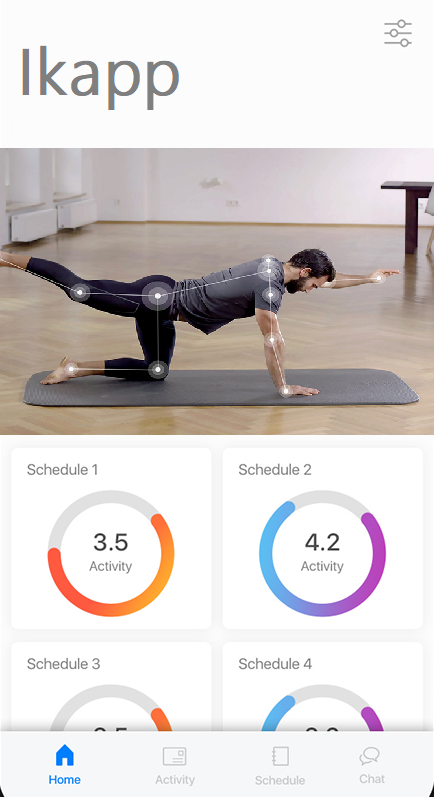
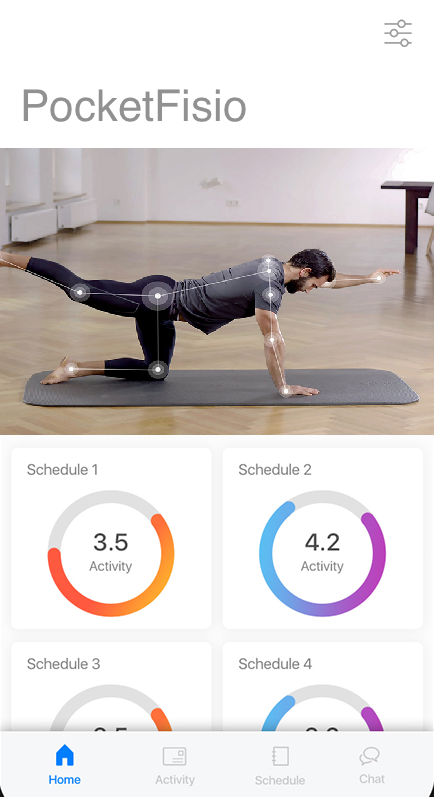
update names from ikapp to pocketfisio

Changed region(s): [[0.03, 0.0602, 0.5691, 0.1506]]

diff --git a/index.html b/index.html
@@ -4,7 +4,7 @@
 <head>
     <meta charset="utf-8">
     <meta name="viewport" content="width=device-width, initial-scale=1.0, shrink-to-fit=no">
-    <title>Home - Ikapp</title>
+    <title>Home - PocketFisio</title>
     <meta name="description" content="Nós usamos tecnologia para acompanhar seu desenvolvimento motor.">
     <link rel="stylesheet" href="assets/bootstrap/css/bootstrap.min.css?h=eeba1d2329a751cb3a0f397b5bee7ef9">
     <link rel="stylesheet" href="https://fonts.googleapis.com/css?family=Lato">
@@ -22,7 +22,7 @@
 
 <body id="page-top">
     <nav class="navbar navbar-light navbar-expand-lg fixed-top" id="mainNav">
-        <div class="container"><a class="navbar-brand js-scroll-trigger" href="#page-top">Ikapp</a><button data-toggle="collapse" data-target="#navbarResponsive" class="navbar-toggler float-right" aria-controls="navbarResponsive" aria-expanded="false" aria-label="Toggle navigation"><i class="fa fa-bars"></i></button>
+        <div class="container"><a class="navbar-brand js-scroll-trigger" href="#page-top">PocketFisio</a><button data-toggle="collapse" data-target="#navbarResponsive" class="navbar-toggler float-right" aria-controls="navbarResponsive" aria-expanded="false" aria-label="Toggle navigation"><i class="fa fa-bars"></i></button>
             <div
                 class="collapse navbar-collapse" id="navbarResponsive">
                 <ul class="nav navbar-nav ml-auto">
@@ -59,7 +59,7 @@
         <div class="container">
             <div class="section-heading text-center">
                 <h2>Segurança, motivação e diversão!</h2>
-                <p class="text-muted">Dá uma olhada no que o IKapp consegue fazer!</p>
+                <p class="text-muted">Dá uma olhada no que o PocketFisio consegue fazer!</p>
                 <hr>
             </div>
             <div class="row">
@@ -78,7 +78,7 @@
                             <div class="col-lg-6">
                                 <div class="feature-item"><i class="fas fa-plus-square text-primary"></i>
                                     <h3>Segurança</h3>
-                                    <p class="text-muted">O Ikapp garante que os seus movimentos sempre estejam sendo executados corretamente!</p>
+                                    <p class="text-muted">O PocketFisio garante que os seus movimentos sempre estejam sendo executados corretamente!</p>
                                 </div>
                             </div>
                             <div class="col-lg-6">
@@ -173,7 +173,7 @@
 </form></div>
     <footer>
         <div class="container">
-            <p>©&nbsp;Ikapp 2020. All Rights Reserved.</p>
+            <p>©&nbsp;PocketFisio 2021. All Rights Reserved.</p>
             <ul class="list-inline">
                 <li class="list-inline-item"><a href="#">Privacy</a></li>
                 <li class="list-inline-item"><a href="#">Terms</a></li>
